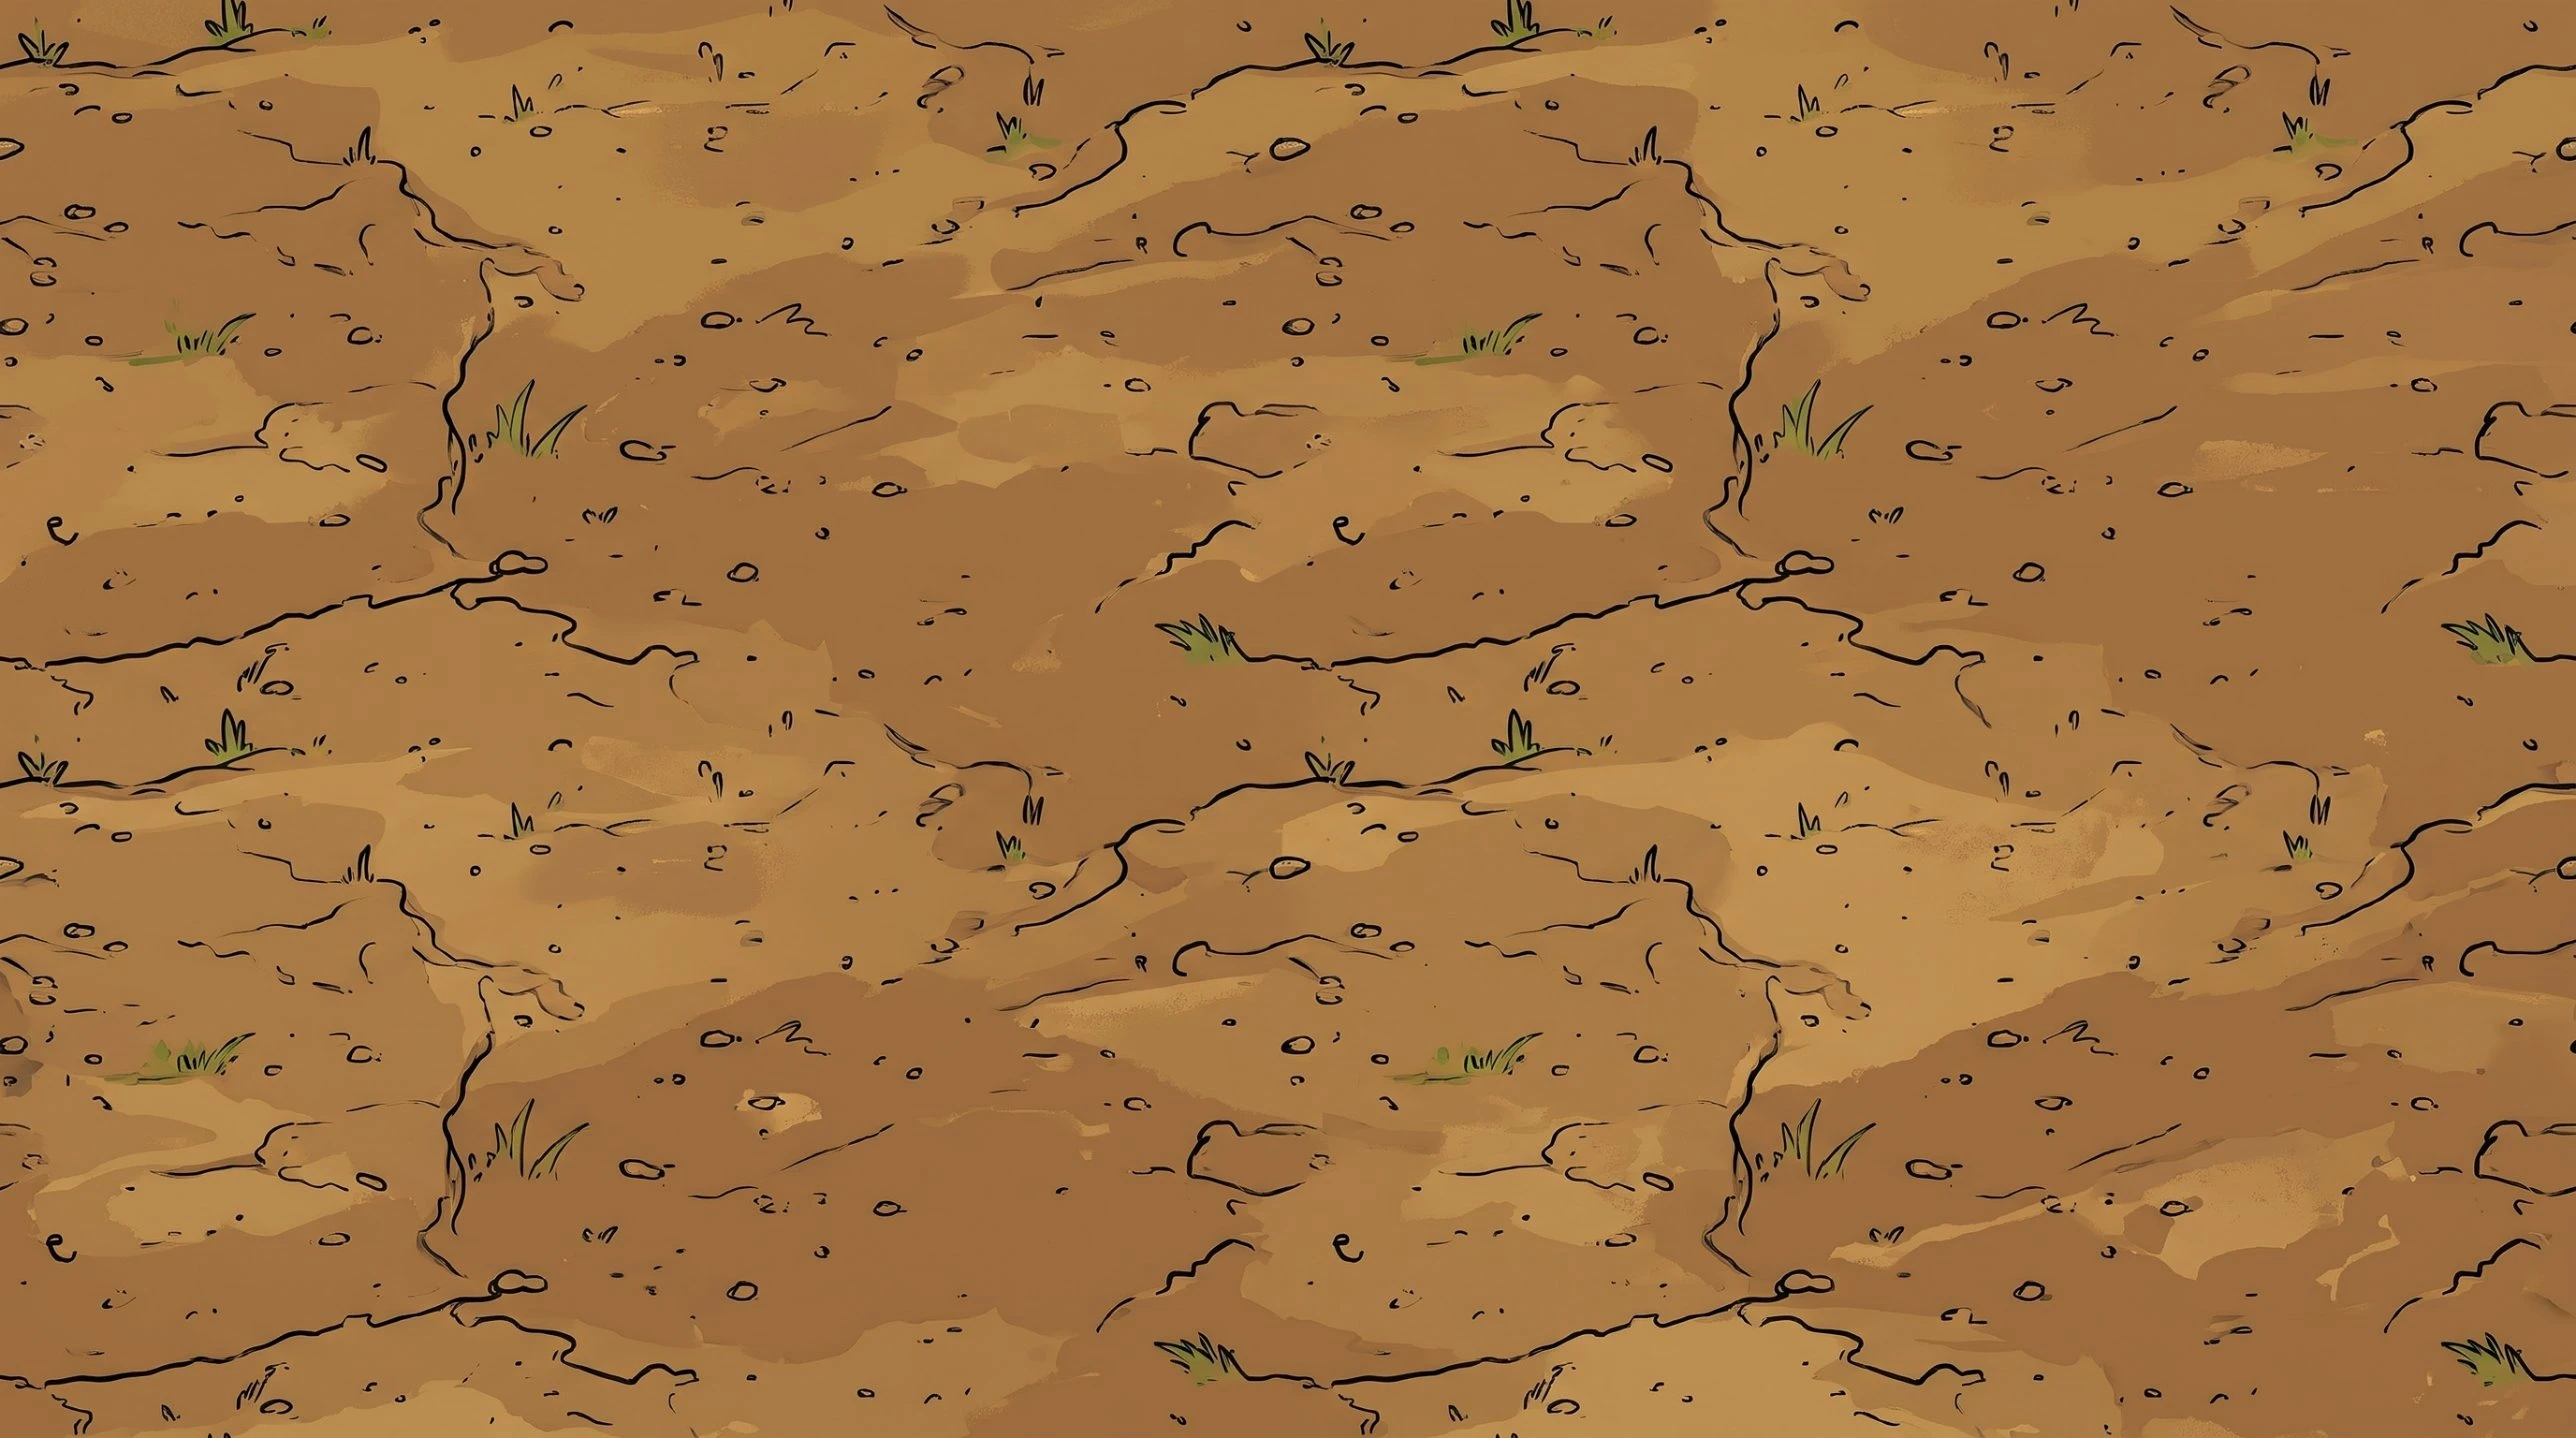
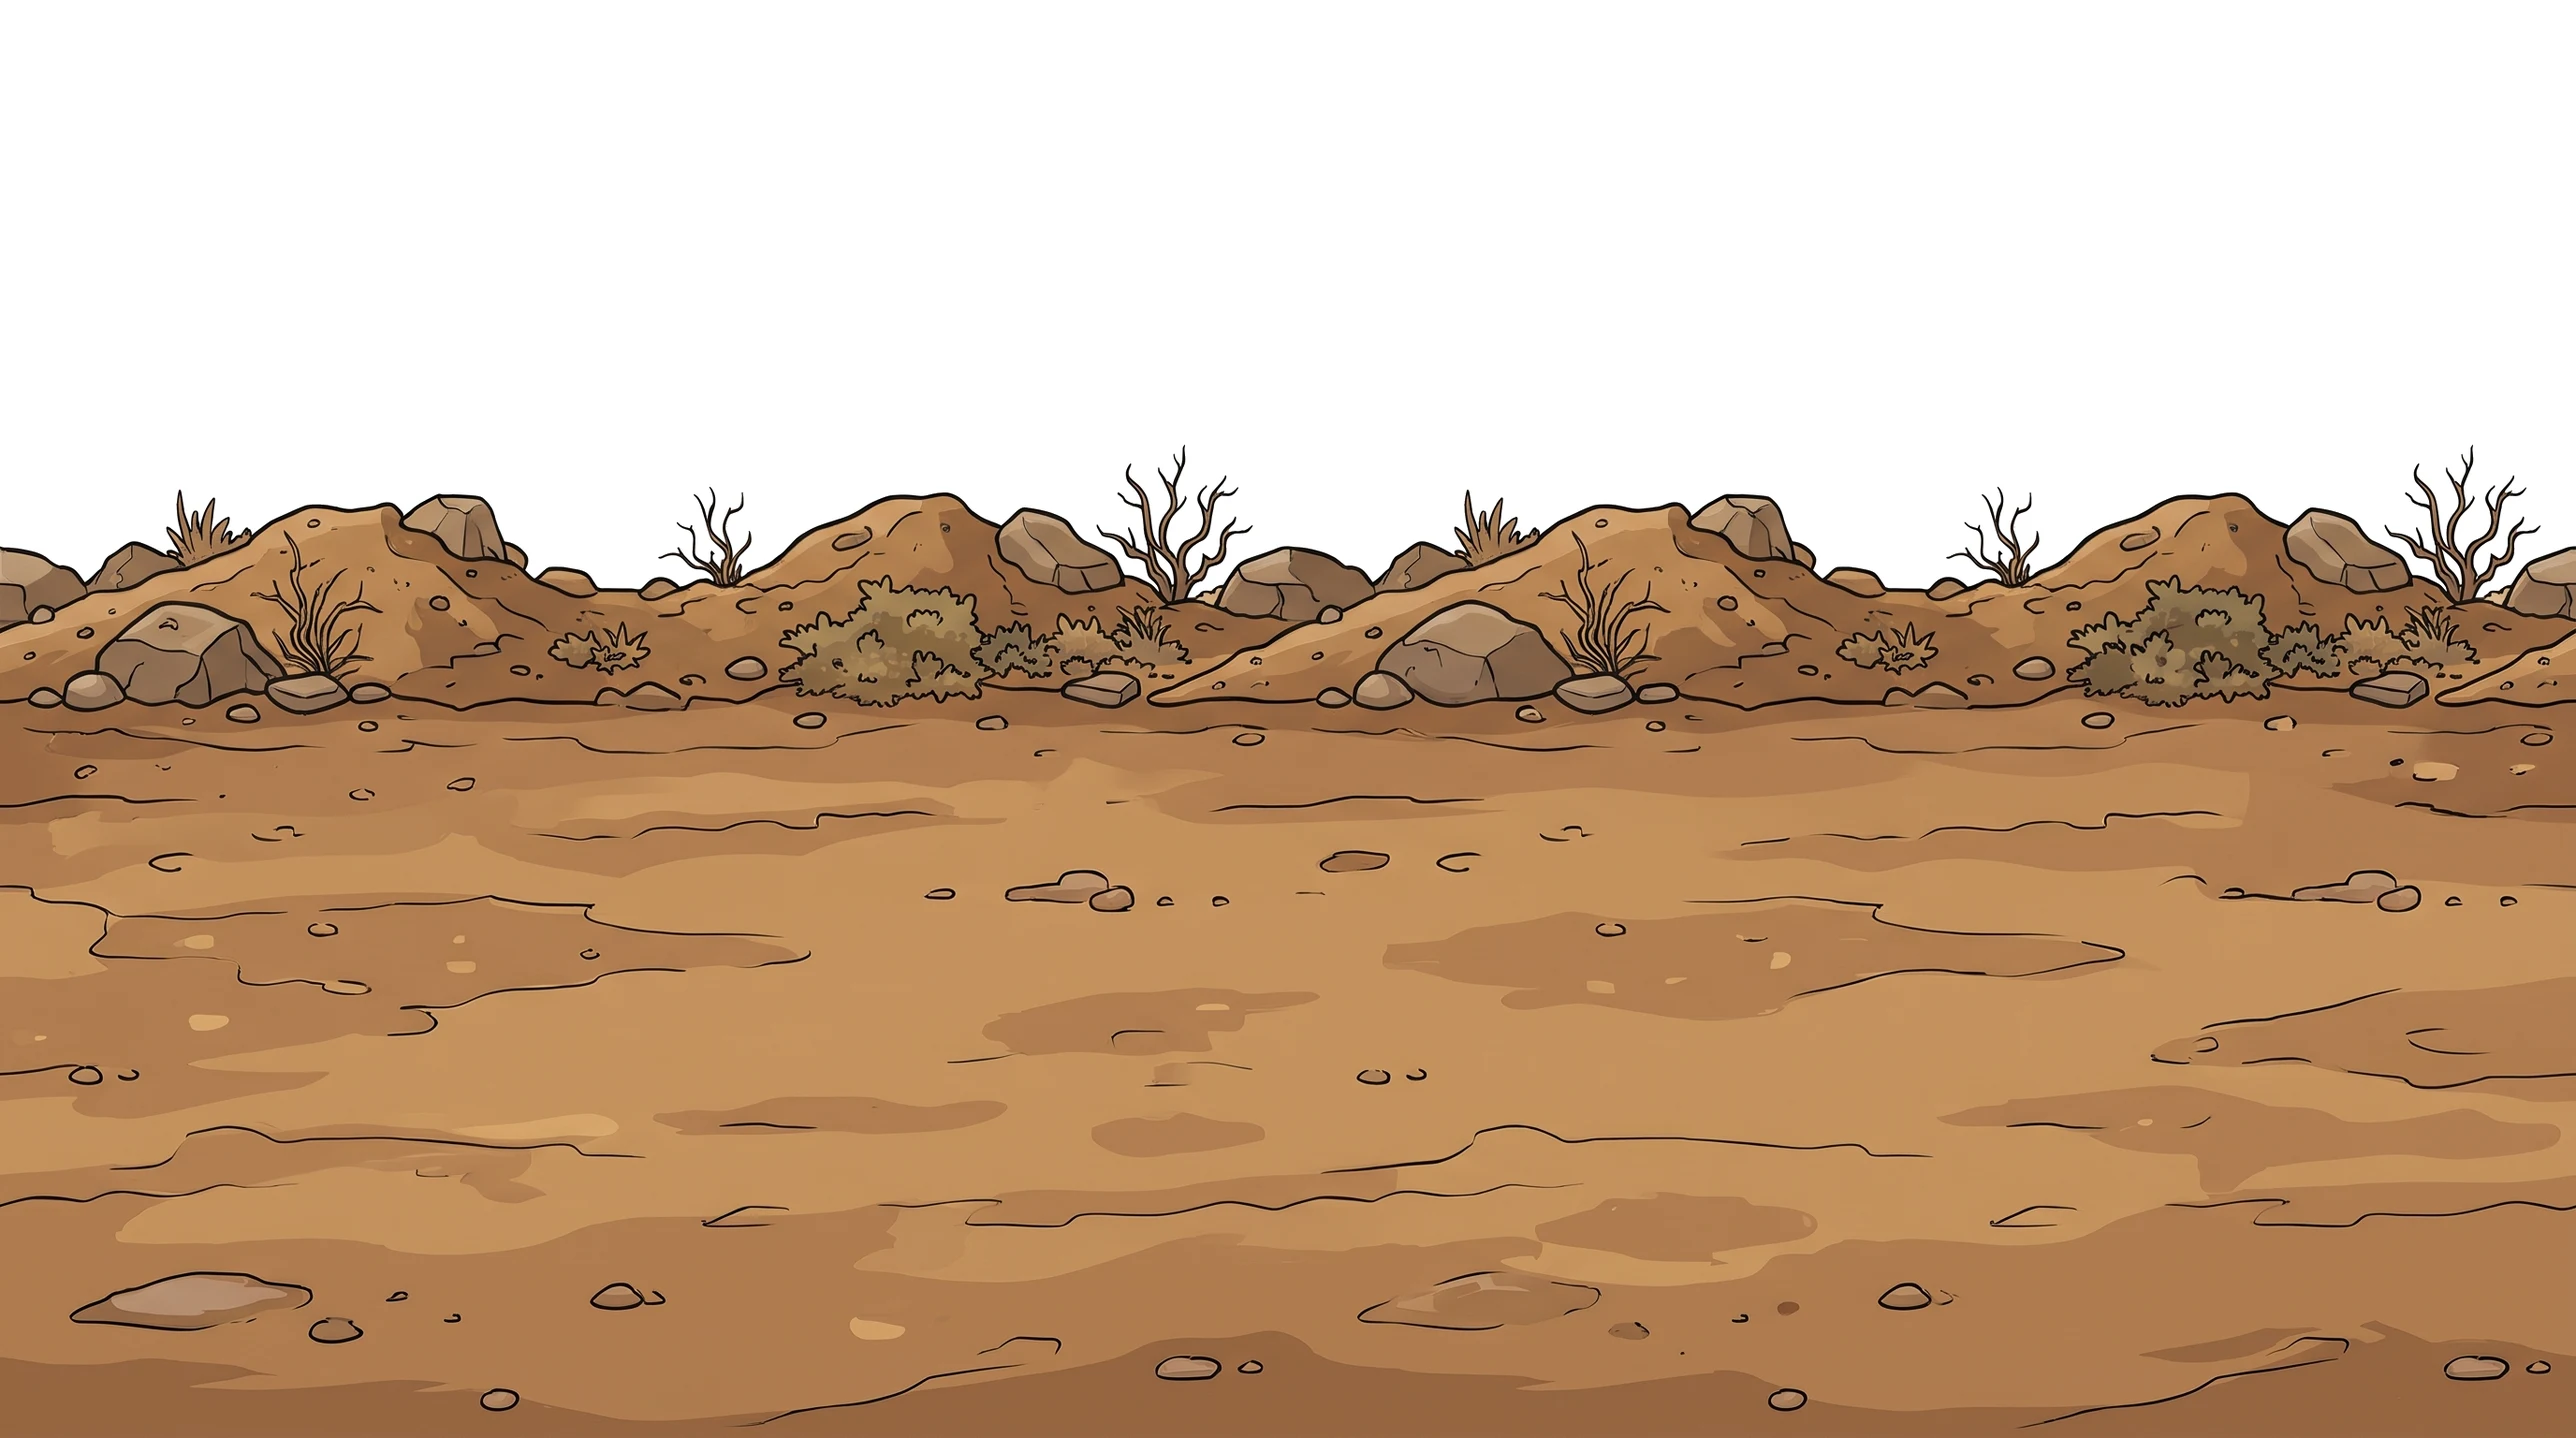
v0.389: tutma kuralı netleştirme, yarık tek-vuruş kilidi, kadın el ataması/katmanı, boss bacak/kol düzeltme, zemin+dağ görseli
Claude-Session: https://claude.ai/code/session_015fAnPN6R6d3uFFUc8rQ6vu

diff --git a/www/index.html b/www/index.html
@@ -1,7 +1,7 @@
 <!doctype html>
 <html lang="en"><head><meta charset="utf-8"><meta name="viewport" content="width=device-width,initial-scale=1,viewport-fit=cover,user-scalable=no">
 <title>Popeye Fighter</title>
-<link rel="stylesheet" href="css/oyun.css?v=0.388">
+<link rel="stylesheet" href="css/oyun.css?v=0.389">
 </head><body>
 
 
@@ -36,34 +36,34 @@
 </div></div>
 <div id="yuk" data-l="yuk"></div>
 
-<script src="js/dil.js?v=0.388"></script>
-<script src="js/ayar.js?v=0.388"></script>
-<script src="js/girdi.js?v=0.388"></script>
-<script src="js/el.js?v=0.388"></script>
-<script src="js/ozel.js?v=0.388"></script>
-<script src="js/mermi.js?v=0.388"></script>
-<script src="js/dusman_kur.js?v=0.388"></script>
-<script src="js/ses.js?v=0.388"></script>
-<script src="js/ispanak.js?v=0.388"></script>
-<script src="js/varil.js?v=0.388"></script>
-<script src="js/efekt.js?v=0.388"></script>
-<script src="js/cevre.js?v=0.388"></script>
-<script src="js/savas.js?v=0.388"></script>
-<script src="js/korsan.js?v=0.388"></script>
-<script src="js/usta.js?v=0.388"></script>
-<script src="js/hud.js?v=0.388"></script>
-<script src="js/kombo.js?v=0.388"></script>
-<script src="js/yetenek.js?v=0.388"></script>
-<script src="js/anti.js?v=0.388"></script>
-<script src="js/zipkin.js?v=0.388"></script>
-<script src="js/menu.js?v=0.388"></script>
-<script src="js/yara_veri.js?v=0.388"></script>
-<script src="js/yara.js?v=0.388"></script>
-<script src="js/dyara_veri.js?v=0.388"></script>
-<script src="js/dyara.js?v=0.388"></script>
-<script src="js/oyuncu.js?v=0.388"></script>
-<script src="js/demo.js?v=0.388"></script>
-<script src="js/dongu.js?v=0.388"></script>
+<script src="js/dil.js?v=0.389"></script>
+<script src="js/ayar.js?v=0.389"></script>
+<script src="js/girdi.js?v=0.389"></script>
+<script src="js/el.js?v=0.389"></script>
+<script src="js/ozel.js?v=0.389"></script>
+<script src="js/mermi.js?v=0.389"></script>
+<script src="js/dusman_kur.js?v=0.389"></script>
+<script src="js/ses.js?v=0.389"></script>
+<script src="js/ispanak.js?v=0.389"></script>
+<script src="js/varil.js?v=0.389"></script>
+<script src="js/efekt.js?v=0.389"></script>
+<script src="js/cevre.js?v=0.389"></script>
+<script src="js/savas.js?v=0.389"></script>
+<script src="js/korsan.js?v=0.389"></script>
+<script src="js/usta.js?v=0.389"></script>
+<script src="js/hud.js?v=0.389"></script>
+<script src="js/kombo.js?v=0.389"></script>
+<script src="js/yetenek.js?v=0.389"></script>
+<script src="js/anti.js?v=0.389"></script>
+<script src="js/zipkin.js?v=0.389"></script>
+<script src="js/menu.js?v=0.389"></script>
+<script src="js/yara_veri.js?v=0.389"></script>
+<script src="js/yara.js?v=0.389"></script>
+<script src="js/dyara_veri.js?v=0.389"></script>
+<script src="js/dyara.js?v=0.389"></script>
+<script src="js/oyuncu.js?v=0.389"></script>
+<script src="js/demo.js?v=0.389"></script>
+<script src="js/dongu.js?v=0.389"></script>
 </script>
 
 </body>

diff --git a/www/js/yetenek.js b/www/js/yetenek.js
@@ -43,7 +43,7 @@ try{const n=parseInt(new URLSearchParams(location.search).get('seviye'));      /
 function agKaydet(){try{localStorage.setItem('pf_agac2',JSON.stringify({acik:[...AG.acik],anti:[...AG.anti],cip:AG.cip,top:AG.top}))}catch(_){}}
 agKaydet();
 const YV=k=>(AG.acik.has(k)&&!(AG.anti.has(k)&&!DEMO))||!!(DEMO&&DEMO.yv.includes(k));      // anti'ye çevrilen yetenek kapalı sayılır (önizlemede asıl hali gösterilir)
-const TUTMA=()=>['A','B','G'].some(k=>YV(k)||(!DEMO&&AG.acik.has(k)))||['H','M','F','R'].some(YV);      // insan tutma: tutma yazan yeteneklerden (İnsan Tutma, Varil Tutma, Sıkı Tutuş) biri verilmişse (öldürülmüş olsa da) ya da Can Çalma / Yırtma / Can Çalmalı Yırtma açıksa çalışır; yetenekler birbirinin önkoşulu değil
+const TUTMA=()=>['A','B','G','F','R'].some(YV);      // İnsan Tutma/Varil Tutma/Sıkı Tutuş/Yırtma/Can Çalmalı Yırtma'dan biri verilip anti'ye çevrilmemişse tutma çalışır; bu 5 yeteneğin şu anki anti etkilerinin hiçbirinde tutma geçmiyor (A: omuz atma, B: varile tekme, G: hızlı eller, F: düşük canlıyı tek yumrukla öldürme, R: yarı enerji) o yüzden ölülerinde çalışmaz; ileride bir anti metni tutmadan bahsederse burası da güncellenmeli; yetenekler birbirinin önkoşulu değil
 const YA=k=>AG.anti.has(k)&&!DEMO;      // yetenek anti haline çevrilmiş mi      // önizlemede gösterilen yetenek geçici açık
 const YGEREK={R:'F'};      // bu yetenek, komşusu açık olsa da önce şunun açılmasını ister (Can Çalmalı Yırtma ← Yırtma)
 const yAcilir=k=>!AG.acik.has(k)&&YKOM[k].some(n=>AG.acik.has(n))&&(!YGEREK[k]||AG.acik.has(YGEREK[k]));

diff --git a/www/js/cevre.js b/www/js/cevre.js
@@ -89,7 +89,7 @@ function cevreArka(zeminY){      // arkaPlan'ın sonunda: kum, evler, arka kazı
 // Kum + deniz (v0.368): evlerin altından ekranın altına. Üstte kum (dünyada sabit, uç uca döşenir), altında deniz (en üstü kıyı köpüğü).
 // İkisi de yatay dilimlerle perspektifli: üst dilim ev katmanı hızında (EV_P), alt dilimler giderek SAHIL_P1 hızına çıkar. Deniz kendi kendine akar:
 // deniz kumdan bağımsız, dere gibi sürekli yavaşça sola akar (DZ_X); koşunca parallaksla daha hızlı kayar.
-const ZEMIN_W=1700,DAG_P=0.35,DAG_BOY=4600,DAG_GERI=260;      // v0.379: dağ daha uzak (0.5→0.35) ve büyük (1500→2300); tabanı iskele arka kenarından DAG_GERI geride (evlerin arkasında)
+const ZEMIN_W=1700,DAG_P=0.35,DAG_BOY=3450,DAG_GERI=260;      // v0.389: dağ %25 daha küçük (4600→3450); tabanı iskele arka kenarından DAG_GERI geride (evlerin arkasında)
       // zemin dokusu dünya eni; yakın dağ: derinlik (evlerden uzak, yavaş kayar) ve dünya boyu
 const KUM_ORAN=0.36,DZ_AKIS=70,DZ_KIYI=0.12,DZ_PER=60,DZ_HIZ=0.22;      // + ekrana doğru akış: kıyı payı, kayma (görsel px), devir (1/sn)      // bandın kum payı; deniz kendi kendine sola akar (dünya birimi/sn), koşunca parallaksla daha hızlı kayar
 let DZ_X=0,DZ_T=-1;

diff --git a/www/js/ayar.js b/www/js/ayar.js
@@ -1,9 +1,9 @@
 'use strict';
 // Ayarlar, sürüm, görsel yükleyici, ekran boyutu, oyuncu durumu (S)
 // ---------- Görseller: hepsi tek yükleyiciyle; tamamı inince oyun başlar ----------
-const OYUN_SURUM='v0.388';      // ekrandaki sürüm (her değişiklikte artar)
+const OYUN_SURUM='v0.389';      // ekrandaki sürüm (her değişiklikte artar)
 document.getElementById('surum').textContent=OYUN_SURUM;
-const SURUM='?v=101';                 // görsel değişince artır: tarayıcı eski önbelleği kullanmasın
+const SURUM='?v=102';                 // görsel değişince artır: tarayıcı eski önbelleği kullanmasın
 const KP=['kafa','govde','kalca','ust','on','elN','elF','uy','bacak','bot'];      // korsan parça seti (k: yumruklu, b: bıçaklı, p: tabancalı kaptan)
 const ADLAR=['el_isp_n','el_isp_f','kalca','ustkol','onkol','onkol2','uyluk','altpan','bacak_bot','el_yum','el_yum_f','el_ac_n','el_ac_f','el_pN','el_pF','p_mermi','p_ates','h_elB','h_kanca','h_zincir','z_dolu','z_bos','z_mizrak','z_ip']      // z_: zıpkın (tabanca dolu/boş, mızrak, halat)
   .concat([...Array(11).keys()].map(i=>'govde'+i),...['k_','b_','p_','h_','m_','f_'].map(q=>KP.map(n=>q+n)));

diff --git a/www/js/ozel.js b/www/js/ozel.js
@@ -171,10 +171,11 @@ function catlakGuncelle1(c){      // true = yarık bitti
       for(let i=0;i<3;i++)karAt(tx+(Math.random()-0.5)*60,ty,c.dir*(80+Math.random()*520)+(Math.random()-0.5)*400,900+Math.random()*1200,true);      // yarıktan çeşitli kıymıklar
       karAt(tx,ty,(Math.random()-0.5)*600,700+Math.random()*900)}}
   if(!c.sonu&&u>c.T-0.8){c.sonu=true;yarikSesDur(c,0.8)}
+  const vuruldu=c.vur||(c.vur=new Set());      // bu yarık her düşmana en çok bir kez vurur (kesin kilit)
   for(const e of DUS){
-    if(e.olu||e.catT===c.t0)continue;
+    if(e.olu||vuruldu.has(e))continue;
     const dx=(e.x-c.x)*c.dir,ey=e.y+e.cy-S.y;
-    if(dx>-80&&dx<d&&ey>-e.r&&ey<350+e.r){e.catT=c.t0;S.yerV=true;vur(e,40*PK(),c.dir*0.25,1,0.85,S.y+100);S.yerV=false;bufCal(TVS,1)}      // yarık düşmana vurunca tahta sesi
+    if(dx>-80&&dx<d&&ey>-e.r&&ey<350+e.r){vuruldu.add(e);S.yerV=true;vur(e,40*PK(),c.dir*0.25,1,0.85,S.y+100);S.yerV=false;bufCal(TVS,1)}      // yarık düşmana vurunca tahta sesi
   }
   return false;
 }

diff --git a/OYUN.md b/OYUN.md
@@ -135,6 +135,12 @@ Her zaman açık: yumruk kombo, tekme, blok. Diğerleri ağaçtan puanla (1–3)
 ## Bölüm 2+ düşmanları (v0.388)
 - 1. bölüm boss: eski kaptan (can 500, XP 200). 2. bölümden itibaren boss: kılıç ustası (erkek, `sk:'m'`, `agil`): can 750, yakın dövüş 22 (kaptanın 1.5 katı), yürüyüş ×1.35, saldırı süreleri ×0.75. Vurulunca %38 şansla geri takla/geri sıçrama, sonra öne atılıp vurur; saldırıdan sonra havaya sıçrar; eğilir, bazı saldırılardan kaçar ("KAÇTI!"). `usta.js`.
 - Tabancalı kadın (`sk:'f'`, 2. bölümden): can 100, atak 20, orta hız; kaptan mermisi/ateşi küçültülmüş (0.55/0.5), namlu ucundan çıkar.
-- Tutma kuralı: `TUTMA()` (yetenek.js) — İnsan Tutma/Varil Tutma/Sıkı Tutuş verilmişse (öldürülmüş olsa da) ya da Can Çalma/Yırtma/Can Çalmalı Yırtma açıksa insan tutma çalışır; yetenekler birbirinin önkoşulu değil.
+- Tutma kuralı: `TUTMA()` (yetenek.js) — A İnsan Tutma, B Varil Tutma, G Sıkı Tutuş, F Yırtma, R Can Çalmalı Yırtma'dan biri VERİLİP anti'ye çevrilmemişse (aktifken) tutma çalışır; bu 5 yeteneğin şu anki anti (ölü) etkilerinin hiçbirinde tutma geçmiyor, o yüzden ölüyken tutma çalışmaz (ileride bir anti metni tutmadan bahsederse koda eklenmeli); yetenekler birbirinin önkoşulu değil.
 - TEST: O tuşu 1 yetenek puanı verir (sonra silinecek).
 - Yere iniş seslerinin (wooddusme, inis_*) başındaki sessizlik `bosKes()` ile kesilir.
+
+## v0.389 düzeltmeler
+- Yarık (Yer Yumruğu, N): her kullanım artık aynı düşmana kesin bir kez vurur (`ozel.js` çatlak başına `Set`).
+- Tabancalı kadın (f): el ataması düzeltildi (tabanca öndeki kolda, `gunNear`), eller kolun ön katmanında çizilir (`eo`).
+- Kılıç ustası boss (m): bacaklar %20 büyük, gövde 20 birim yukarı alındı (`bs:1.2`, `bel:468.3`); kollar düz duruşa alındı (bıçaklı gard açısı artık uygulanmıyor).
+- Zemin görseli değişti (kumlu toprak), dağ %25 daha küçültüldü (`DAG_BOY` 4600→3450).

diff --git a/CLAUDE.md b/CLAUDE.md
@@ -44,5 +44,4 @@ Mobil yan kaydırmalı dövüş oyunu. Canvas 2D; kod `www/js/*.js` dosyalarına
 - Aynı karakterin parçaları aynı ölçekte. Kenar boşlukları script ile kesilir, ofset tabloya yazılır.
 
 ## Yapılacaklar
-- Kadın (f) elleri ters bağlı: sağ el solda, sol el sağda; ella, kolun ön katmanında.
-- Kadın sol eli boş bekleme durumunda kolla paralel düz (şu an yukarı bükülü).
+- Kadın (f) sol eli boş bekleme durumunda hâlâ kolla paralel düz görünmeyebilir (yumruk eli bilekten katlanmış gibi): görsel/koddan emin değiliz, kullanıcı test edip söylerse düzeltilecek.
